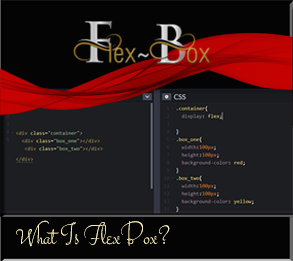
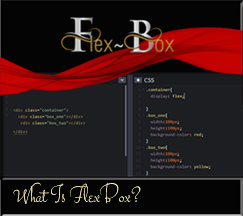
Changing Images 2-2-2024

Changed region(s): [[0.0288, 0.8056, 0.9794, 0.9444]]

diff --git a/Articles/2024/1-Flexbox/1-What-Is-Flexbox/1-What-Is-Flexbox.html b/Articles/2024/1-Flexbox/1-What-Is-Flexbox/1-What-Is-Flexbox.html
@@ -59,7 +59,8 @@ font-weight:bold;
    
    <br>
 <br>
-  <img src="What-is-Flexbox-Main-Image1.png" width="293" height="261" class="responsiveImage" >
+
+<img src="What-is-Flexbox-Main-Image1.png" width="243" height="216">
 <h1>What is Flexbox?</h1>
     <p class="LeftPMidBlack">Flexbox was introduced in October of 2017. It is the latest  and greatest way of positioning things on a web page. It makes things easier to  layout and it is completely responsive.</p>
     <p class="LeftPMidBlack">With flexbox you start out with a container in your layout  and then you can position everything within it.</p>

diff --git a/Articles/Main-Yearly-Archive-Webpages/2024-Achives.html b/Articles/Main-Yearly-Archive-Webpages/2024-Achives.html
@@ -43,8 +43,7 @@
   <div class="container">
         <div class="content">
           <div class="col left">
-            <img src="../2024/1-Flexbox/1-What-Is-Flexbox/What-is-Flexbox-Main-Image1.png" title="" alt=""/>
-          </div>
+          <img src="../2024/1-Flexbox/1-What-Is-Flexbox/What-is-Flexbox-Main-Image1.png" width="243" height="216"></div>
           <div class="col right">
           
          <p class="H2LBrown" >1 Flexbox-Fundamentals</h2>
